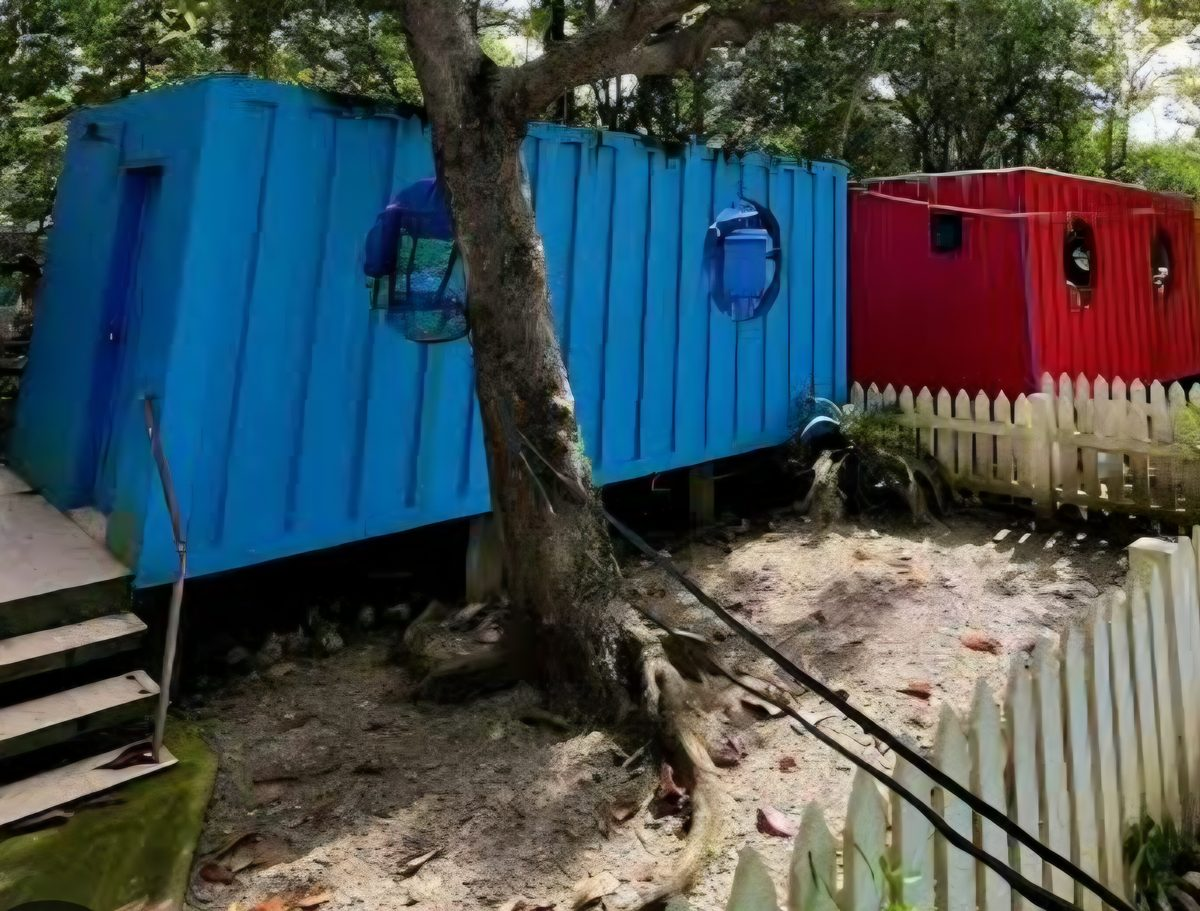
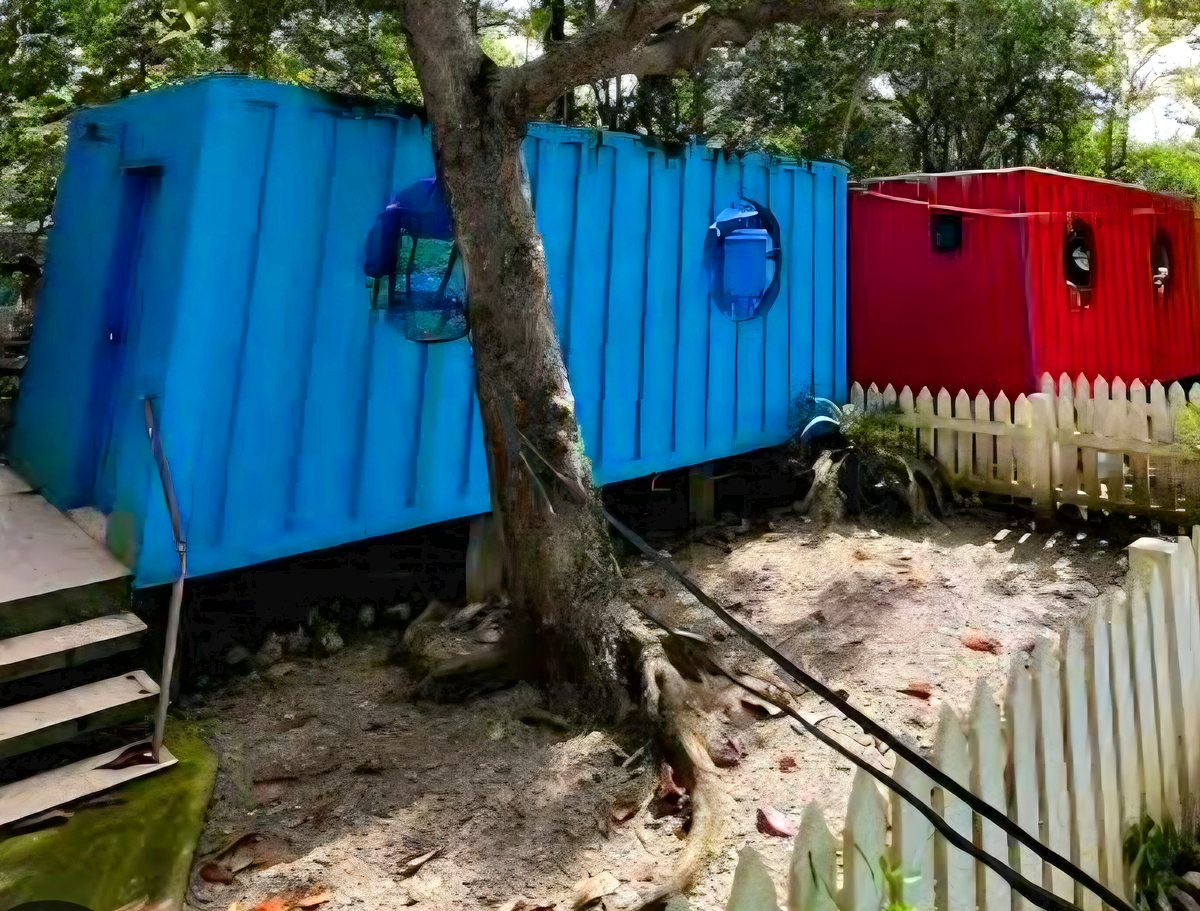
Blog: brighter colours on the container house photo (#190)
* Container house photo: brighter, truer colours

Claude-Session: https://claude.ai/code/session_01Ro3JDeqSyPn3UbQE5uUM7e

* Rebuild dist for recoloured photo

Claude-Session: https://claude.ai/code/session_01Ro3JDeqSyPn3UbQE5uUM7e

---------

diff --git a/dist/blog/first-post-as-acting-treasurer/index.html b/dist/blog/first-post-as-acting-treasurer/index.html
@@ -1107,7 +1107,7 @@ header.site { box-shadow: 0 1px 0 var(--line); }
 .menu-btn svg .b1, .blog-filters > summary svg .b1 { stroke: var(--gold-ink); }
 .menu-btn svg .b2, .blog-filters > summary svg .b2 { stroke: var(--blue-ink); }
 .menu-btn svg .b3, .blog-filters > summary svg .b3 { stroke: var(--green-ink); }
-</style></head><body><header class="site"><div class="wrap"><button type="button" id="menu-open" class="menu-btn" aria-label="Open menu" aria-controls="site-menu" aria-expanded="false"><svg viewBox="0 0 24 24" aria-hidden="true"><path class="b1" d="M3 6h18"/><path class="b2" d="M3 12h14"/><path class="b3" d="M3 18h10"/></svg></button><nav id="site-menu" aria-label="Main menu"><a href="/">Home</a><a href="/projects/">Projects</a><a href="/study-notes/">Study Notes</a><a href="/tools/rpt-calculator/">RPT Calculator</a><a href="/tutorials/">Tutorials</a><a href="/blog/" class="active" aria-current="page">Blog</a><a href="/about/">About</a><a href="/contact/">Contact</a><a href="/privacy/">Privacy Policy</a><a href="/terms/">Terms of Use</a></nav></div></header><main><div class="wrap"><div class="blog-col"><a href="/blog/" class="back">&larr; All posts</a><article class="post" data-cat="finance"><div class="meta"><span class="cat cat-green">Public Finance</span><span class="muted">October 29, 2026</span><span class="muted dot">·</span><span class="muted">7 min read</span></div><h1>360 Degrees: My First Post as Acting Municipal Treasurer</h1><p class="byline">By <a href="/about/">Ambrosio “Butch” U. Mahinay</a></p><p class="lead">Two years, two Mayors, a pandemic, a typhoon and an election: what my first post as Acting Municipal Treasurer of a municipality in Quezon taught me.</p><p>Some assignments arrive with a job description. Mine arrived with a microphone, a restaurant full of masked faces, and a turnover that took two full days.</p><p>I received my first designation as Acting Municipal Treasurer of a municipality in Quezon at a time when I was the only ICLTE passer in the Provincial Treasurer&#x27;s Office. An Acting Municipal Treasurer must have passed the Basic Competency on Local Treasury Examination (BCLTE); the Intermediate Competency on Local Treasury Examination (ICLTE) is the higher of the two. That credential opened a door I had not expected to walk through so soon. On the road to my new post, one quiet question kept me company: am I ready for this?</p><p>The town was not new to me, but the office was. What followed, from 2020 to 2022, were two of the most demanding and meaningful years of my career, spent in the middle of the COVID-19 pandemic. This is the story of that first post.</p><h3>A Welcome I Did Not Expect</h3><p>I arrived in town at around two in the afternoon, ready for paperwork. I was not ready for the warmth that waited for me that evening.</p><p>We gathered at a local restaurant for a dinner with two purposes: to thank the outgoing Municipal Treasurer for the service given to the town, and to welcome me as the new one. We practiced social distancing, so the tables were set well apart. Seated at them were the Municipal Mayor, the Vice Mayor, every member of the Sangguniang Bayan, the Municipal Administrator, the department heads and a few employees of the municipality. I sat with my new group from the Municipal Treasurer&#x27;s Office, joined by two employees from the Provincial Treasurer&#x27;s Office who had come to conduct the turnover.</p><p>Every face around the tables was half hidden behind a mask. It was the pandemic, and I learned to read smiles in people&#x27;s eyes. Among them was a familiar one: the Municipal Assessor, my friend and former co-worker at the Provincial Treasurer&#x27;s Office. In a room full of new colleagues, one friendly face made all the difference.</p><p>Then someone handed me the microphone. I thanked everyone for receiving me, and I told them the truth:</p><blockquote><p>This is a challenge for me. My comfort zone has always been one division. Here, I will have to work and decide in 360 degrees.</p></blockquote><p>The next two days belonged to the turnover, formally conducted by those two employees from the Provincial Treasurer&#x27;s Office. In treasury work, a turnover is more than a handshake. It is the moment accountability changes hands, as cash, records and responsibility pass from one officer to the next.</p><h3>From One Division to 360 Degrees</h3><p>Until then, my work had clear borders. I belonged to a single division with a defined set of tasks, and I knew that ground well.</p><p>My new post erased those borders. As head of the treasury office, I suddenly owned the whole circle: collections, disbursements, cash management, reports, people, and the decisions that tie them together. Problems no longer came from one direction. They came from every side, often at once, and the final call was mine.</p><p>That shift is the real test of a first designation. It is not about knowing more rules. It is about seeing the whole office at once and still deciding with care.</p><h3>Home Was a Container House</h3><p>The pandemic shaped every part of those years. Travel was restricted, offices ran on skeleton schedules, and going home was rarely an option.</p><p>For two years, my home was the municipal container house. It was small and simple, but it kept me close to the office and the work. It stood near the sea, and every night I fell asleep to the sound of the waves. I wore a face mask every working day, until it felt as much a part of my uniform as my ID.</p><figure class="screenshot medium"><img src="/static/blog/container-house.jpg?v=f5045885" alt="The container houses, my home from September 2020 to September 2022" loading="lazy"><figcaption>The container houses, my home from September 2020 to September 2022</figcaption></figure><p>They were hard to miss, painted bright colours and lined up under old shade trees behind a white picket fence. I lived in the blue one for most of my stay and moved to the red one for my last six months. After a long day of collections and reports, that splash of colour was a cheerful thing to come home to.</p><p>Those nights by the sea taught me something about public service: you cannot always choose your conditions, but you can choose how you show up in them. I am deeply grateful to the people of the town who made those years easier. They checked on me, helped me settle in, and treated the new treasurer like one of their own.</p><h3>Three Days in Boracay</h3><p>In those years we could hardly go anywhere. Lockdowns and travel restrictions kept most of us within town limits for months at a time.</p><p>So when the first Mayor I served approved my travel to Boracay for a three-day official training, it felt like a rare gift. The training sharpened my skills as a new treasurer, and the short change of scenery sent me back to work with fresh energy. I remain thankful for that trust, at a time when every trip had to be justified.</p><h3>When the Typhoon Came</h3><p>As if a pandemic were not enough, a strong typhoon struck the town during my term. Homes were damaged, livelihoods were lost, and families waited for help.</p><p>In a disaster, the treasury is where help becomes cash in people&#x27;s hands. Together with the municipal officials, headed by the Municipal Mayor, my staff and I visited every barangay to distribute financial assistance to the affected families. It took about a week, and I could not have done it without the responsible, hardworking team beside me.</p><p>I came to know the town not from behind a desk, but from its roads, its coastline and its upland villages. Those trips changed how I understand my job.</p><blockquote><p>Every peso we safeguard in the government account exists for moments like that: a family receiving help when they need it most.</p></blockquote><h3>Election Duty: Neutral by Mandate</h3><p>I also served through an election there. I will leave the politics to others; that is not my place, and it never should be.</p><p>What I can say is this: the law gives the municipal treasurer a role in the election, including the counting and canvassing of votes. It is one of the least visible parts of the job, and one of the most serious. On those days, neutrality is not just good manners. It is the duty itself.</p><h3>Two Mayors, One Team</h3><p>During my term I served under two Mayors: the first for one year and ten months, and the second for my final two months. Leadership changed, but the work never paused.</p><p>What made that possible was the people. We worked well together across the whole municipality, from the department heads to the frontline staff. In the middle of a pandemic, that kind of teamwork is not a bonus. It is how a town keeps running.</p><h3>What the Job Taught Me</h3><p>The work of a municipal treasurer is not easy, and the accountability is high. Every collection, every disbursement and every signature carries your name, and you answer for all of it. That post taught me three lessons I still carry:</p><p class="point"><b>Leadership begins outside your comfort zone.</b> I grew the most when I had to see the whole office, not just one division.</p><p class="point"><b>Public money has a human face.</b> A week on the road to every barangay after the typhoon made that real for me.</p><p class="point"><b>No one serves alone.</b> A pandemic, a typhoon and an election were easier to face because of the people beside me.</p><h3>Thank You</h3><p>Looking back, I am truly happy for the experience and the work. To the two Mayors I served, the Vice Mayor, the Sangguniang Bayan, the Municipal Administrator, the department heads, my treasury staff, my friend the Municipal Assessor, and the people of the town: thank you for welcoming a newcomer and making me one of your own.</p><p>And to anyone receiving a first designation today: say yes to the challenge. The comfort zone is safe, but the growth is out there, all 360 degrees of it.</p></article><div class="react" data-page="/blog/first-post-as-acting-treasurer/"><button type="button" class="react-btn react-follow" aria-pressed="false" aria-label="Follow Butch Mahinay" hidden><svg viewBox="0 0 24 24" aria-hidden="true"><path d="M9.5 11a4 4 0 1 0 0-8 4 4 0 0 0 0 8zM2.5 21v-1a6 6 0 0 1 6-6h2a6 6 0 0 1 6 6v1"/><path class="plus" d="M19 8v6M16 11h6"/></svg><span class="react-word">Follow</span><span class="react-count"></span></button><button type="button" class="react-btn react-heart" aria-pressed="false" aria-label="Heart this" hidden><svg viewBox="0 0 24 24" aria-hidden="true"><path d="M12 20.5s-7.5-4.6-9.3-9.2C1.5 8 3.6 4.5 7.2 4.5c2 0 3.6 1.1 4.8 2.8 1.2-1.7 2.8-2.8 4.8-2.8 3.6 0 5.7 3.5 4.5 6.8-1.8 4.6-9.3 9.2-9.3 9.2z"/></svg><span class="react-word">Heart</span><span class="react-count"></span></button><button type="button" class="react-btn react-like" aria-pressed="false" aria-label="Like this" hidden><svg viewBox="0 0 24 24" aria-hidden="true"><path d="M7.5 10.5v9.5H4a1 1 0 0 1-1-1v-7.5a1 1 0 0 1 1-1zM7.5 10.5l3.6-7a2.2 2.2 0 0 1 3.9 1.9l-1 3.6h5.2a2 2 0 0 1 2 2.4l-1.4 6.9a2 2 0 0 1-2 1.7H7.5"/></svg><span class="react-word">Like</span><span class="react-count"></span></button><button type="button" class="react-btn react-share"><svg viewBox="0 0 24 24" aria-hidden="true"><path d="M12 3v12M7.5 7.5 12 3l4.5 4.5M5 12v7a2 2 0 0 0 2 2h10a2 2 0 0 0 2-2v-7"/></svg><span class="react-word" aria-live="polite">Share</span><span class="react-count"></span></button></div><script>
+</style></head><body><header class="site"><div class="wrap"><button type="button" id="menu-open" class="menu-btn" aria-label="Open menu" aria-controls="site-menu" aria-expanded="false"><svg viewBox="0 0 24 24" aria-hidden="true"><path class="b1" d="M3 6h18"/><path class="b2" d="M3 12h14"/><path class="b3" d="M3 18h10"/></svg></button><nav id="site-menu" aria-label="Main menu"><a href="/">Home</a><a href="/projects/">Projects</a><a href="/study-notes/">Study Notes</a><a href="/tools/rpt-calculator/">RPT Calculator</a><a href="/tutorials/">Tutorials</a><a href="/blog/" class="active" aria-current="page">Blog</a><a href="/about/">About</a><a href="/contact/">Contact</a><a href="/privacy/">Privacy Policy</a><a href="/terms/">Terms of Use</a></nav></div></header><main><div class="wrap"><div class="blog-col"><a href="/blog/" class="back">&larr; All posts</a><article class="post" data-cat="finance"><div class="meta"><span class="cat cat-green">Public Finance</span><span class="muted">October 29, 2026</span><span class="muted dot">·</span><span class="muted">7 min read</span></div><h1>360 Degrees: My First Post as Acting Municipal Treasurer</h1><p class="byline">By <a href="/about/">Ambrosio “Butch” U. Mahinay</a></p><p class="lead">Two years, two Mayors, a pandemic, a typhoon and an election: what my first post as Acting Municipal Treasurer of a municipality in Quezon taught me.</p><p>Some assignments arrive with a job description. Mine arrived with a microphone, a restaurant full of masked faces, and a turnover that took two full days.</p><p>I received my first designation as Acting Municipal Treasurer of a municipality in Quezon at a time when I was the only ICLTE passer in the Provincial Treasurer&#x27;s Office. An Acting Municipal Treasurer must have passed the Basic Competency on Local Treasury Examination (BCLTE); the Intermediate Competency on Local Treasury Examination (ICLTE) is the higher of the two. That credential opened a door I had not expected to walk through so soon. On the road to my new post, one quiet question kept me company: am I ready for this?</p><p>The town was not new to me, but the office was. What followed, from 2020 to 2022, were two of the most demanding and meaningful years of my career, spent in the middle of the COVID-19 pandemic. This is the story of that first post.</p><h3>A Welcome I Did Not Expect</h3><p>I arrived in town at around two in the afternoon, ready for paperwork. I was not ready for the warmth that waited for me that evening.</p><p>We gathered at a local restaurant for a dinner with two purposes: to thank the outgoing Municipal Treasurer for the service given to the town, and to welcome me as the new one. We practiced social distancing, so the tables were set well apart. Seated at them were the Municipal Mayor, the Vice Mayor, every member of the Sangguniang Bayan, the Municipal Administrator, the department heads and a few employees of the municipality. I sat with my new group from the Municipal Treasurer&#x27;s Office, joined by two employees from the Provincial Treasurer&#x27;s Office who had come to conduct the turnover.</p><p>Every face around the tables was half hidden behind a mask. It was the pandemic, and I learned to read smiles in people&#x27;s eyes. Among them was a familiar one: the Municipal Assessor, my friend and former co-worker at the Provincial Treasurer&#x27;s Office. In a room full of new colleagues, one friendly face made all the difference.</p><p>Then someone handed me the microphone. I thanked everyone for receiving me, and I told them the truth:</p><blockquote><p>This is a challenge for me. My comfort zone has always been one division. Here, I will have to work and decide in 360 degrees.</p></blockquote><p>The next two days belonged to the turnover, formally conducted by those two employees from the Provincial Treasurer&#x27;s Office. In treasury work, a turnover is more than a handshake. It is the moment accountability changes hands, as cash, records and responsibility pass from one officer to the next.</p><h3>From One Division to 360 Degrees</h3><p>Until then, my work had clear borders. I belonged to a single division with a defined set of tasks, and I knew that ground well.</p><p>My new post erased those borders. As head of the treasury office, I suddenly owned the whole circle: collections, disbursements, cash management, reports, people, and the decisions that tie them together. Problems no longer came from one direction. They came from every side, often at once, and the final call was mine.</p><p>That shift is the real test of a first designation. It is not about knowing more rules. It is about seeing the whole office at once and still deciding with care.</p><h3>Home Was a Container House</h3><p>The pandemic shaped every part of those years. Travel was restricted, offices ran on skeleton schedules, and going home was rarely an option.</p><p>For two years, my home was the municipal container house. It was small and simple, but it kept me close to the office and the work. It stood near the sea, and every night I fell asleep to the sound of the waves. I wore a face mask every working day, until it felt as much a part of my uniform as my ID.</p><figure class="screenshot medium"><img src="/static/blog/container-house.jpg?v=edda5211" alt="The container houses, my home from September 2020 to September 2022" loading="lazy"><figcaption>The container houses, my home from September 2020 to September 2022</figcaption></figure><p>They were hard to miss, painted bright colours and lined up under old shade trees behind a white picket fence. I lived in the blue one for most of my stay and moved to the red one for my last six months. After a long day of collections and reports, that splash of colour was a cheerful thing to come home to.</p><p>Those nights by the sea taught me something about public service: you cannot always choose your conditions, but you can choose how you show up in them. I am deeply grateful to the people of the town who made those years easier. They checked on me, helped me settle in, and treated the new treasurer like one of their own.</p><h3>Three Days in Boracay</h3><p>In those years we could hardly go anywhere. Lockdowns and travel restrictions kept most of us within town limits for months at a time.</p><p>So when the first Mayor I served approved my travel to Boracay for a three-day official training, it felt like a rare gift. The training sharpened my skills as a new treasurer, and the short change of scenery sent me back to work with fresh energy. I remain thankful for that trust, at a time when every trip had to be justified.</p><h3>When the Typhoon Came</h3><p>As if a pandemic were not enough, a strong typhoon struck the town during my term. Homes were damaged, livelihoods were lost, and families waited for help.</p><p>In a disaster, the treasury is where help becomes cash in people&#x27;s hands. Together with the municipal officials, headed by the Municipal Mayor, my staff and I visited every barangay to distribute financial assistance to the affected families. It took about a week, and I could not have done it without the responsible, hardworking team beside me.</p><p>I came to know the town not from behind a desk, but from its roads, its coastline and its upland villages. Those trips changed how I understand my job.</p><blockquote><p>Every peso we safeguard in the government account exists for moments like that: a family receiving help when they need it most.</p></blockquote><h3>Election Duty: Neutral by Mandate</h3><p>I also served through an election there. I will leave the politics to others; that is not my place, and it never should be.</p><p>What I can say is this: the law gives the municipal treasurer a role in the election, including the counting and canvassing of votes. It is one of the least visible parts of the job, and one of the most serious. On those days, neutrality is not just good manners. It is the duty itself.</p><h3>Two Mayors, One Team</h3><p>During my term I served under two Mayors: the first for one year and ten months, and the second for my final two months. Leadership changed, but the work never paused.</p><p>What made that possible was the people. We worked well together across the whole municipality, from the department heads to the frontline staff. In the middle of a pandemic, that kind of teamwork is not a bonus. It is how a town keeps running.</p><h3>What the Job Taught Me</h3><p>The work of a municipal treasurer is not easy, and the accountability is high. Every collection, every disbursement and every signature carries your name, and you answer for all of it. That post taught me three lessons I still carry:</p><p class="point"><b>Leadership begins outside your comfort zone.</b> I grew the most when I had to see the whole office, not just one division.</p><p class="point"><b>Public money has a human face.</b> A week on the road to every barangay after the typhoon made that real for me.</p><p class="point"><b>No one serves alone.</b> A pandemic, a typhoon and an election were easier to face because of the people beside me.</p><h3>Thank You</h3><p>Looking back, I am truly happy for the experience and the work. To the two Mayors I served, the Vice Mayor, the Sangguniang Bayan, the Municipal Administrator, the department heads, my treasury staff, my friend the Municipal Assessor, and the people of the town: thank you for welcoming a newcomer and making me one of your own.</p><p>And to anyone receiving a first designation today: say yes to the challenge. The comfort zone is safe, but the growth is out there, all 360 degrees of it.</p></article><div class="react" data-page="/blog/first-post-as-acting-treasurer/"><button type="button" class="react-btn react-follow" aria-pressed="false" aria-label="Follow Butch Mahinay" hidden><svg viewBox="0 0 24 24" aria-hidden="true"><path d="M9.5 11a4 4 0 1 0 0-8 4 4 0 0 0 0 8zM2.5 21v-1a6 6 0 0 1 6-6h2a6 6 0 0 1 6 6v1"/><path class="plus" d="M19 8v6M16 11h6"/></svg><span class="react-word">Follow</span><span class="react-count"></span></button><button type="button" class="react-btn react-heart" aria-pressed="false" aria-label="Heart this" hidden><svg viewBox="0 0 24 24" aria-hidden="true"><path d="M12 20.5s-7.5-4.6-9.3-9.2C1.5 8 3.6 4.5 7.2 4.5c2 0 3.6 1.1 4.8 2.8 1.2-1.7 2.8-2.8 4.8-2.8 3.6 0 5.7 3.5 4.5 6.8-1.8 4.6-9.3 9.2-9.3 9.2z"/></svg><span class="react-word">Heart</span><span class="react-count"></span></button><button type="button" class="react-btn react-like" aria-pressed="false" aria-label="Like this" hidden><svg viewBox="0 0 24 24" aria-hidden="true"><path d="M7.5 10.5v9.5H4a1 1 0 0 1-1-1v-7.5a1 1 0 0 1 1-1zM7.5 10.5l3.6-7a2.2 2.2 0 0 1 3.9 1.9l-1 3.6h5.2a2 2 0 0 1 2 2.4l-1.4 6.9a2 2 0 0 1-2 1.7H7.5"/></svg><span class="react-word">Like</span><span class="react-count"></span></button><button type="button" class="react-btn react-share"><svg viewBox="0 0 24 24" aria-hidden="true"><path d="M12 3v12M7.5 7.5 12 3l4.5 4.5M5 12v7a2 2 0 0 0 2 2h10a2 2 0 0 0 2-2v-7"/></svg><span class="react-word" aria-live="polite">Share</span><span class="react-count"></span></button></div><script>
 (function () {
   var box = document.querySelector(".react");
   if (!box) return;
